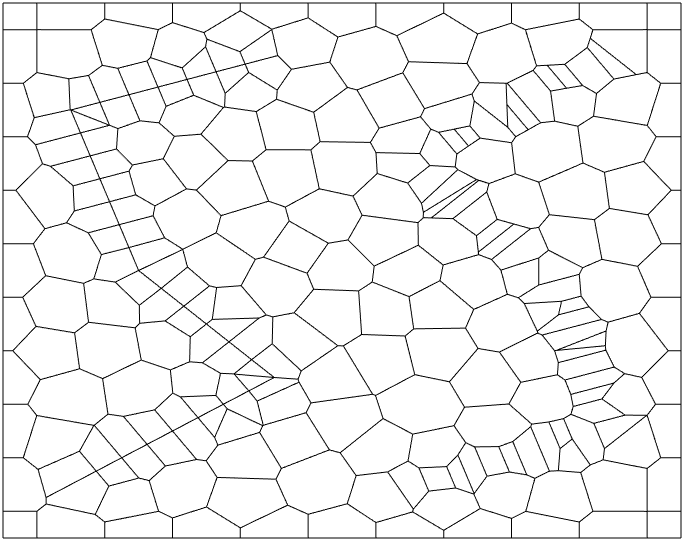
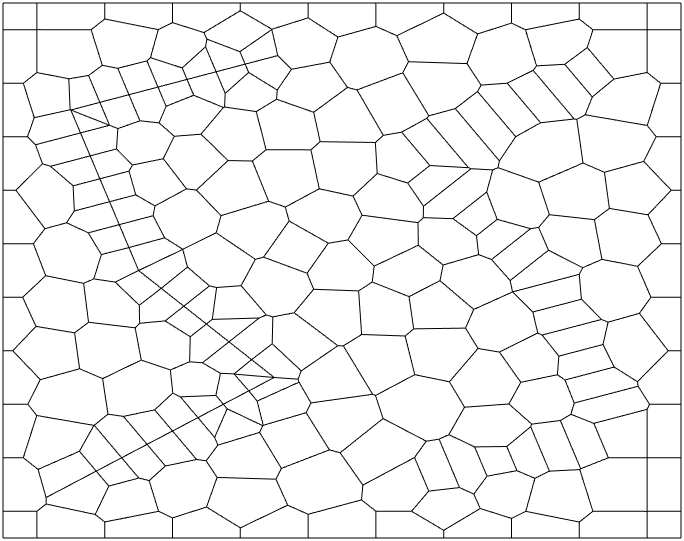
Create new plots with fixed cell constraints in pebiGrid2DGmsh

diff --git a/code/thesis_plots/combining_MRST_Gmsh/constraints_in_MATLAB.m b/code/thesis_plots/combining_MRST_Gmsh/constraints_in_MATLAB.m
@@ -16,11 +16,11 @@ plot(cellConstraints{1}(:, 1), cellConstraints{1}(:, 2), color="magenta", lineSt
 exportgraphics(gcf,'plots/constraints_MATLAB_2.png');
 
 F = surfaceSites2D(faceConstraints, resGridSize/3);
-wellSites = lineSites2D(cellConstraints, resGridSize/2);
+[wellSites,cGs,protPts,pGs] = lineSites2D(cellConstraints, resGridSize/2);
 
 % Remove conflict points
 Pts = surfaceSufCond2D(G.nodes.coords,F);
-Pts = removeConflictPoints(Pts, wellSites, resGridSize/2);
+Pts = removeConflictPoints(Pts, wellSites, cGs);
 Pts = [Pts; wellSites; F.f.pts];
 
 clf;
